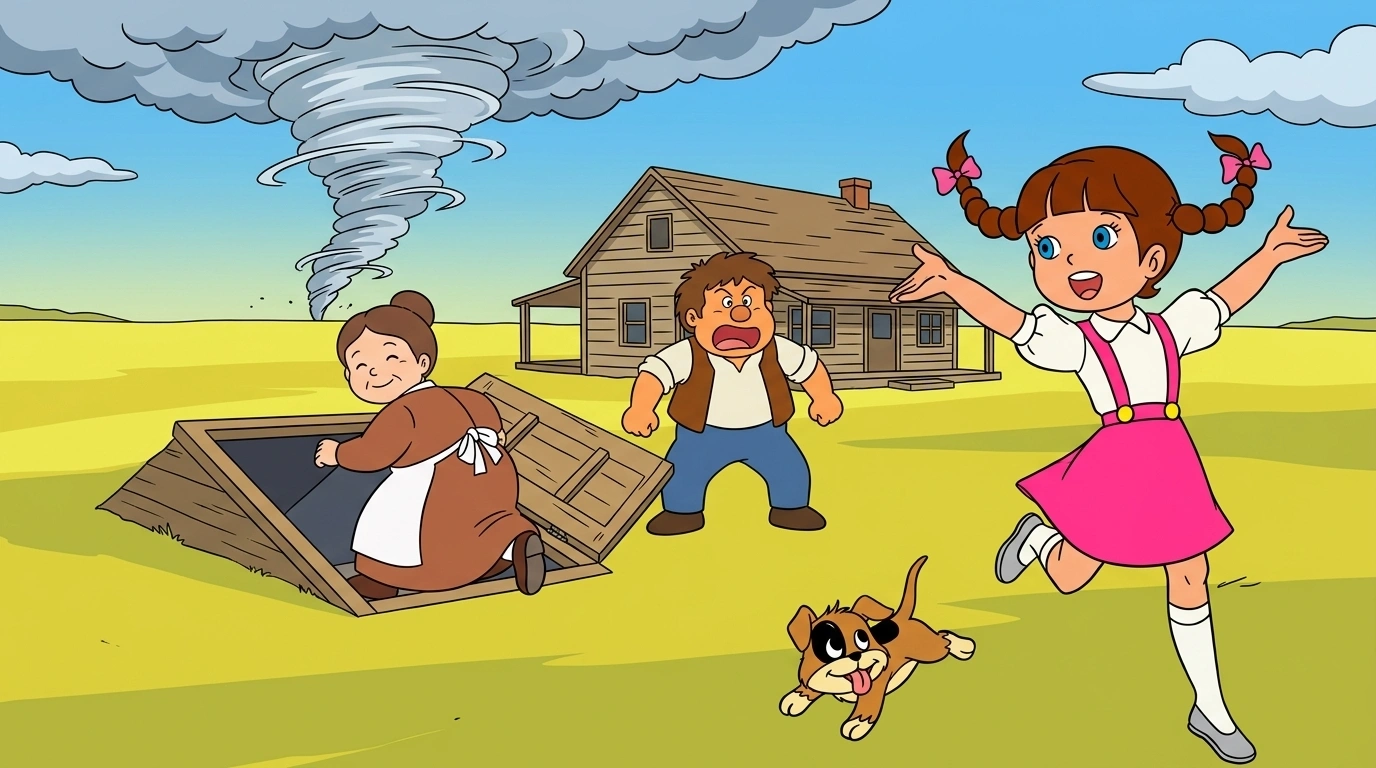
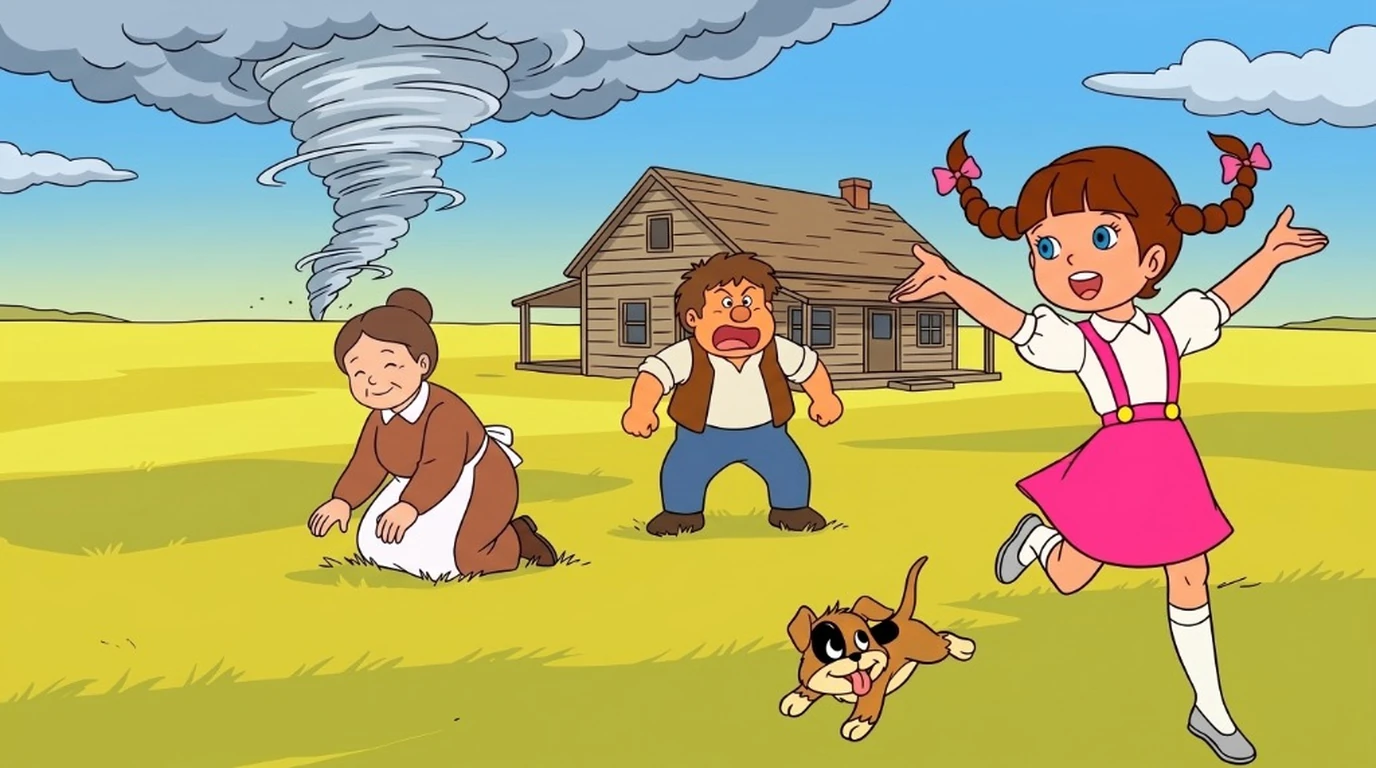
오즈의 마법사 1장면 그림 교체 — 캔자스 벌판의 회오리바람
사용자가 준 그림으로 01-twister.webp 교체. 규격(1376×768) WebP 변환 및 그림 버전(20260924) 갱신.

diff --git a/learning/literacy-numeracy/story-books/world-tales/oz-wizard/app.js b/learning/literacy-numeracy/story-books/world-tales/oz-wizard/app.js
@@ -276,7 +276,7 @@ const CHAPTERS = [
 function artFrame(src, emoji) {
     return `
         <div class="art-frame">
-            <img src="images/${src}?v=20260918" alt="" onerror="this.style.display='none'; this.nextElementSibling.style.display='flex';">
+            <img src="images/${src}?v=20260924" alt="" onerror="this.style.display='none'; this.nextElementSibling.style.display='flex';">
             <div class="art-fallback" style="display:none">${emoji}</div>
         </div>`;
 }

diff --git a/learning/literacy-numeracy/story-books/world-tales/oz-wizard/index.html b/learning/literacy-numeracy/story-books/world-tales/oz-wizard/index.html
@@ -36,6 +36,6 @@
         <div class="vocab-panel" id="vocabPanel"></div>
     </div>
 
-    <script src="app.js?v=20260921bb"></script>
+    <script src="app.js?v=20260924"></script>
 </body>
 </html>
